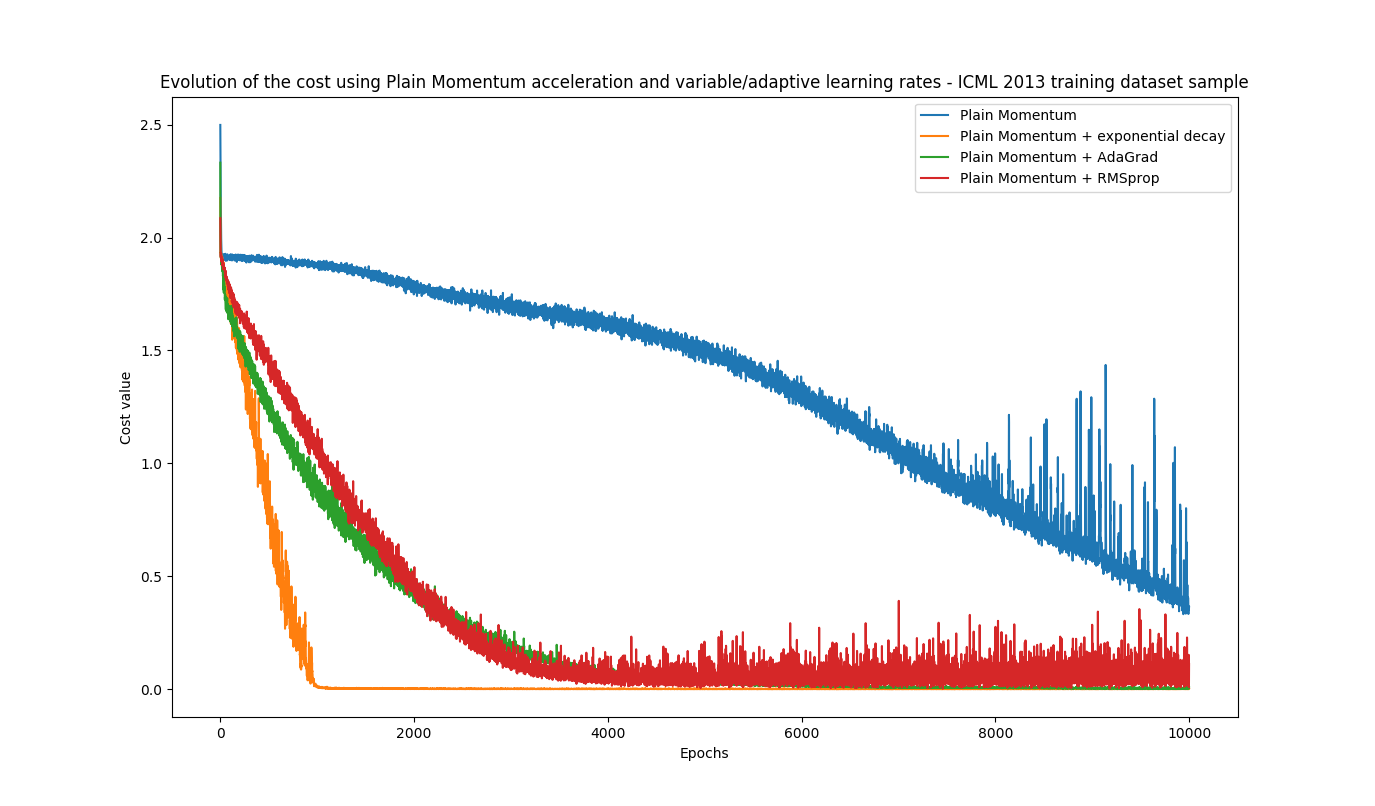
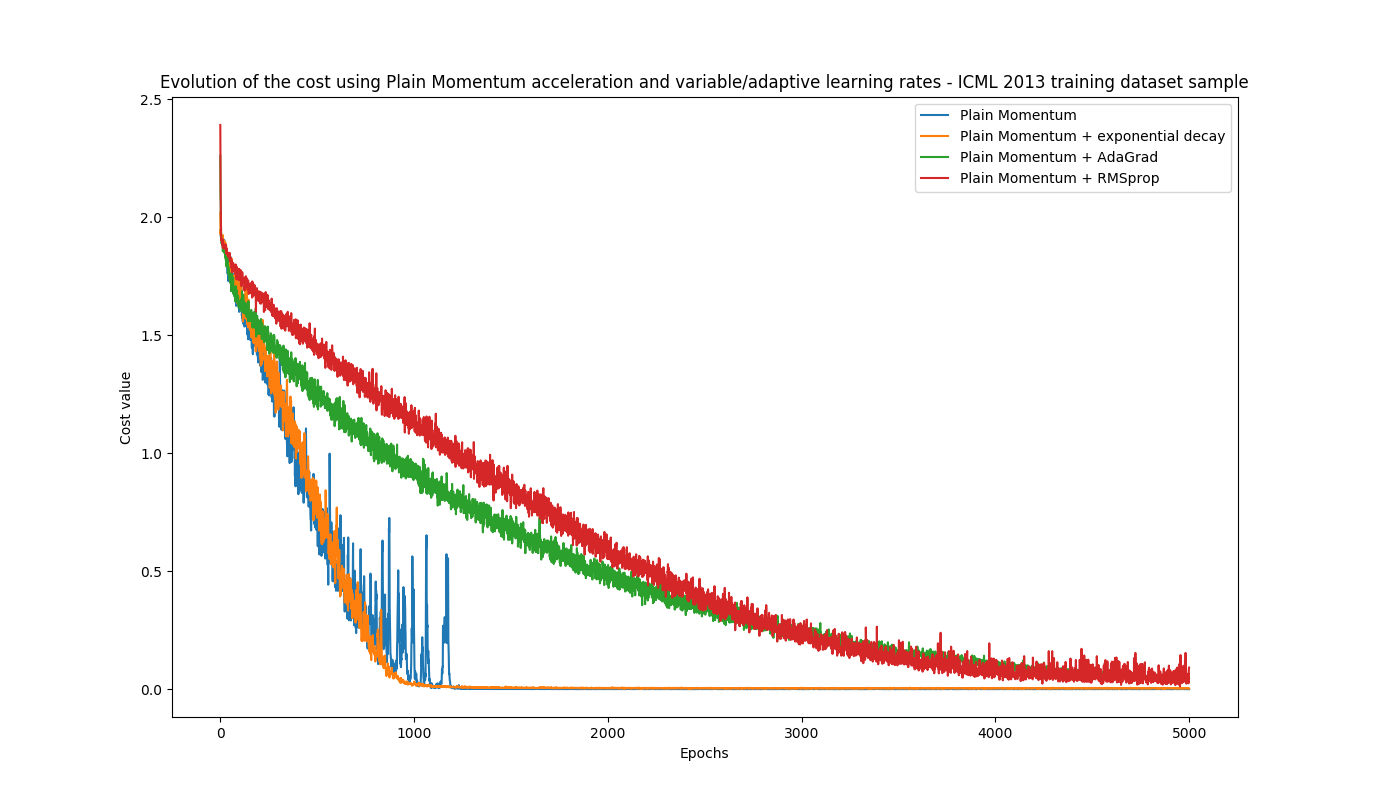
Add files via upload

diff --git a/fer_batch2_expdecay.py b/fer_batch2_expdecay.py
@@ -7,6 +7,7 @@
 import numpy as np
 import matplotlib.pyplot as plt
 from ANN_relu_Multi_batch2_expdecay import ANN_relu
+from sklearn.externals import joblib
 
 
 
@@ -30,7 +31,7 @@ def main():
 
 
 # train the model with a hyperparameters setting
-    model.fit(X, Y, alpha=1e-4, epochs=10000, reg=1e-2, mu=0.9, show_fig=True)
+    model.fit(X, Y, alpha=1e-2, epochs=5000, reg=0, mu=0.9, show_fig=True)
 
 
 # compute the prediciton/accuracy based on input data
@@ -40,7 +41,6 @@ def main():
 
 
 # save the model object to a file
-    from sklearn.externals import joblib
     joblib.dump(model, 'ANN_relu_batch2_expdecay.sav')
     
 

diff --git a/fer_batch2_RMSprop.py b/fer_batch2_RMSprop.py
@@ -6,6 +6,7 @@
 import numpy as np
 import matplotlib.pyplot as plt
 from ANN_relu_Multi_batch2_RMSprop import ANN_relu
+from sklearn.externals import joblib
 
 
 
@@ -28,7 +29,7 @@ def main():
 
 
 # train the model with a hyperparameters setting
-    model.fit(X, Y, alpha=1e-5, epochs=10000, reg=1e-2, mu=0.9, show_fig=True)
+    model.fit(X, Y, alpha=1e-5, epochs=5000, reg=0, mu=0.9, show_fig=True)
 
 
 # compute the prediciton/accuracy based on input data
@@ -38,7 +39,6 @@ def main():
 
 
 # save the model object to a file
-    from sklearn.externals import joblib
     joblib.dump(model, 'ANN_relu_batch2_RMSprop.sav')
     
 
